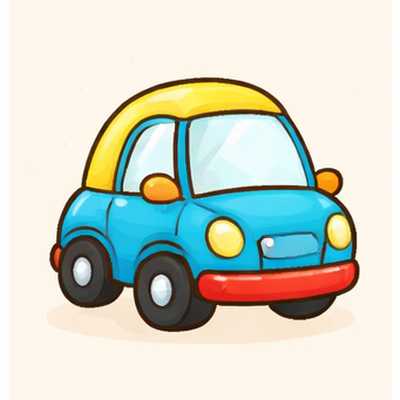
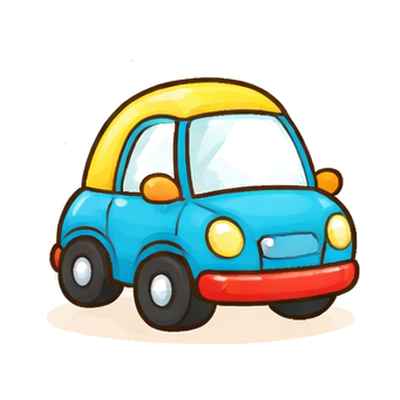
Add transparent backgrounds to pictogram images
- Add remove_background() function to detect and remove near-white backgrounds
- Split command now auto-removes backgrounds during processing
- Add fix-backgrounds command to process existing images
- Process all 17 ChatGPT-generated images

Images now blend seamlessly with the cream card background,
eliminating visible rectangles and white fringes.

Fixes #36

diff --git a/pictogram_workflow.py b/pictogram_workflow.py
@@ -319,6 +319,64 @@ def center_crop_to_square(img):
     return img.crop((left, top, left + min_dim, top + min_dim))
 
 
+def remove_background(img, threshold=30):
+    """
+    Remove near-white/cream background from image, making it transparent.
+
+    Detects background color from corner pixels and makes similar pixels transparent.
+    This allows the card's cream background to show through cleanly.
+
+    Args:
+        img: PIL Image (RGB mode)
+        threshold: Color distance threshold for background detection (0-255)
+
+    Returns:
+        PIL Image with RGBA mode and transparent background
+    """
+    # Convert to RGBA
+    if img.mode != 'RGBA':
+        img = img.convert('RGBA')
+
+    pixels = img.load()
+    width, height = img.size
+
+    # Sample corner pixels to detect background color
+    corners = [
+        pixels[0, 0],
+        pixels[width-1, 0],
+        pixels[0, height-1],
+        pixels[width-1, height-1]
+    ]
+
+    # Average the corner colors (ignore alpha)
+    bg_r = sum(c[0] for c in corners) // 4
+    bg_g = sum(c[1] for c in corners) // 4
+    bg_b = sum(c[2] for c in corners) // 4
+
+    # Only process if background looks like white/cream (light colored)
+    if bg_r < 200 or bg_g < 200 or bg_b < 200:
+        # Background is not light, skip processing
+        return img
+
+    # Make pixels close to background color transparent
+    for y in range(height):
+        for x in range(width):
+            r, g, b, a = pixels[x, y]
+
+            # Calculate color distance from background
+            dist = abs(r - bg_r) + abs(g - bg_g) + abs(b - bg_b)
+
+            if dist < threshold:
+                # Make transparent
+                pixels[x, y] = (r, g, b, 0)
+            elif dist < threshold * 2:
+                # Partial transparency for anti-aliasing
+                alpha = int(255 * (dist - threshold) / threshold)
+                pixels[x, y] = (r, g, b, alpha)
+
+    return img
+
+
 def split_grid(img, names, cols, rows):
     """
     Split a grid image into individual images.
@@ -348,7 +406,10 @@ def split_grid(img, names, cols, rows):
         square = center_crop_to_square(cell)
 
         # Resize to 400x400
-        final = square.resize((400, 400), Image.LANCZOS)
+        resized = square.resize((400, 400), Image.LANCZOS)
+
+        # Remove background for clean card integration
+        final = remove_background(resized)
 
         results.append((name, final))
 
@@ -492,6 +553,53 @@ def cmd_split(args):
 
 # ── Main ───────────────────────────────────────────────────────────────────
 
+def cmd_fix_backgrounds(args):
+    """Remove backgrounds from existing images."""
+    # Find images to process
+    if args.names:
+        images = [IMAGES_DIR / f"{name}.png" for name in args.names]
+    else:
+        # Process all ChatGPT-generated images (skip placeholders)
+        images = []
+        for f in sorted(IMAGES_DIR.glob("*.png")):
+            # Check if it's a ChatGPT image (larger file size, not a placeholder)
+            if f.stat().st_size > 10000:  # > 10KB likely ChatGPT
+                images.append(f)
+
+    if not images:
+        print("No images to process.")
+        return
+
+    print(f"Processing {len(images)} images...")
+    processed = 0
+
+    for img_path in images:
+        if not img_path.exists():
+            print(f"  Skip: {img_path.name} (not found)")
+            continue
+
+        img = Image.open(img_path)
+
+        # Skip if already has transparency
+        if img.mode == 'RGBA':
+            # Check if it actually has transparent pixels
+            extrema = img.split()[-1].getextrema()
+            if extrema[0] < 255:  # Has some transparency
+                print(f"  Skip: {img_path.name} (already transparent)")
+                continue
+
+        # Convert and process
+        if img.mode != 'RGB':
+            img = img.convert('RGB')
+
+        result = remove_background(img)
+        result.save(img_path, 'PNG')
+        processed += 1
+        print(f"  ✓ {img_path.name}")
+
+    print(f"\nDone! Processed {processed} images.")
+
+
 def main():
     parser = argparse.ArgumentParser(
         description="Pictogram workflow for letter cards",
@@ -521,6 +629,12 @@ def main():
     split_parser.add_argument('--keep', '-k', action='store_true',
                               help='Keep staging image after processing')
 
+    # Fix-backgrounds command
+    fix_bg_parser = subparsers.add_parser('fix-backgrounds',
+                                          help='Remove backgrounds from existing images')
+    fix_bg_parser.add_argument('names', nargs='*',
+                               help='Specific images to process (default: all ChatGPT images)')
+
     args = parser.parse_args()
 
     if args.command == 'status':
@@ -529,6 +643,8 @@ def main():
         cmd_prompt(args)
     elif args.command == 'split':
         cmd_split(args)
+    elif args.command == 'fix-backgrounds':
+        cmd_fix_backgrounds(args)
     else:
         parser.print_help()
 
